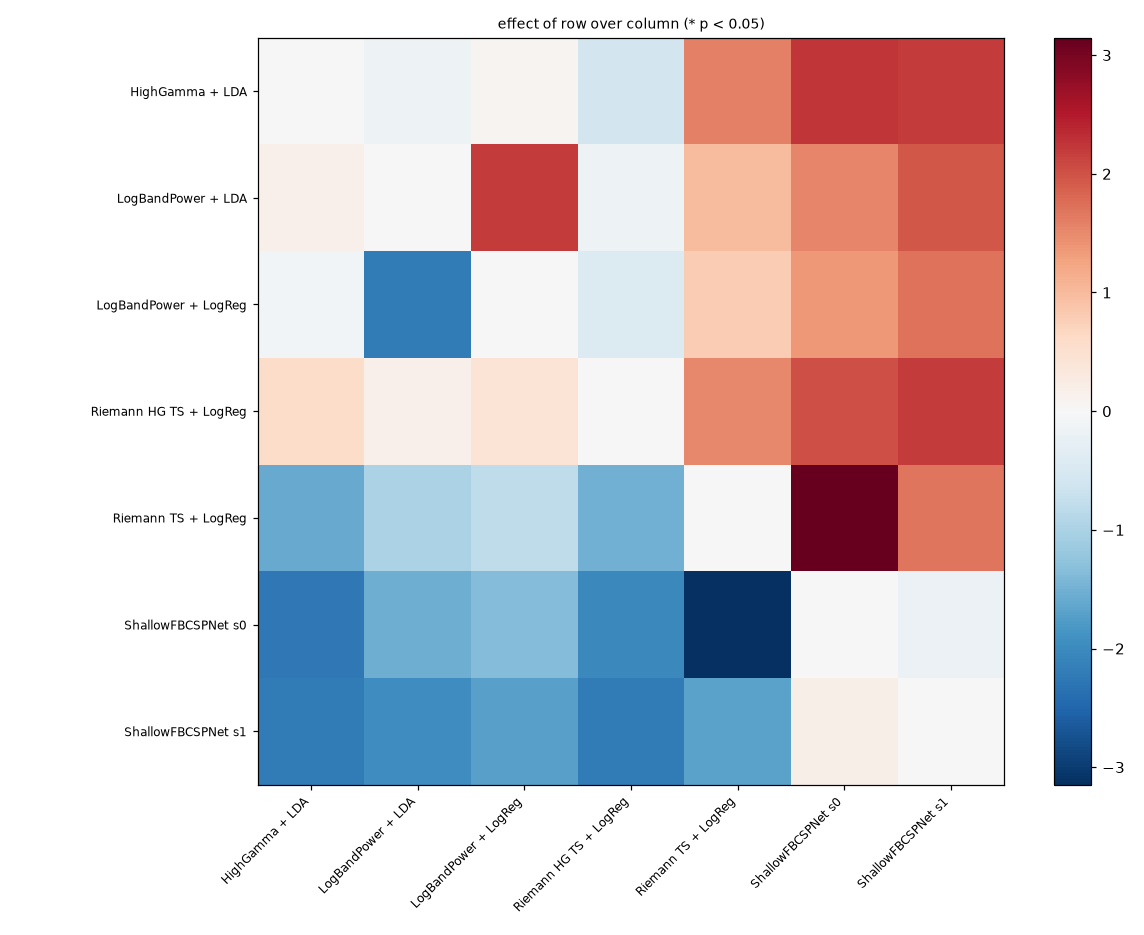
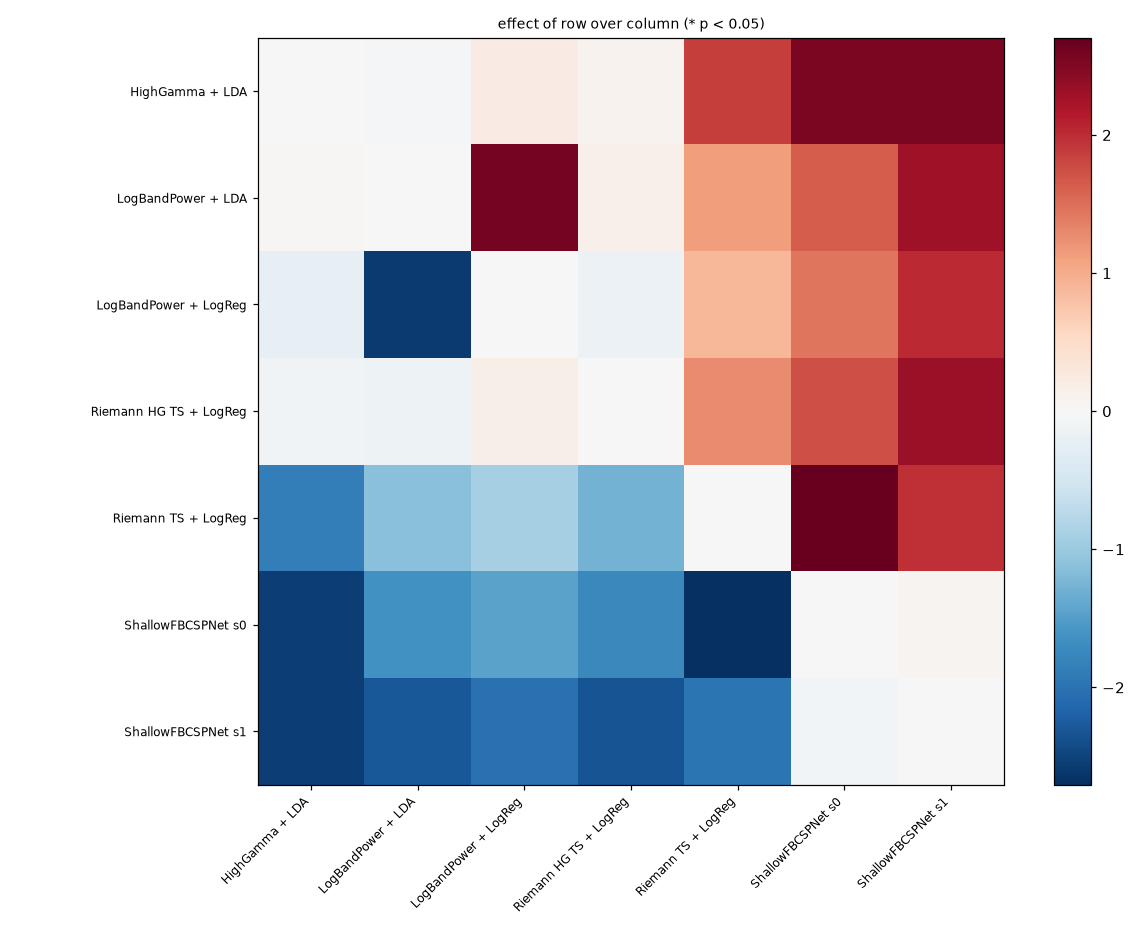
BCI III-1 aligned evaluations: re-centering lifts the Riemannian pipeline across sessions, EA hurts band power
results: within_subject:ea, cross_session:ea / :recenter / :zscore rows at the native rate;
analysis page and leaderboard regenerated; findings and roadmap M3 row updated.

Claude-Session: https://claude.ai/code/session_012mHgFPYmnEEGgL1ssc12EU

Changed region(s): [[0.2142, 0.031, 0.8872, 0.8374]]

diff --git a/docs/leaderboard.md b/docs/leaderboard.md
@@ -1,6 +1,6 @@
 # MOECoG leaderboard
 
-Generated 2026-09-11 from `results/*.csv` at commit `3f00dbc` by `scripts/build_leaderboard.py`. Values are mean ± sd over subjects of the per-subject fold mean. Headline metrics: kappa (trials), Pearson r (kinematics). Chronological folds unless noted; see `docs/baselines.md` for protocol details.
+Generated 2026-09-11 from `results/*.csv` at commit `c3aab13` by `scripts/build_leaderboard.py`. Values are mean ± sd over subjects of the per-subject fold mean. Headline metrics: kappa (trials), Pearson r (kinematics). Chronological folds unless noted; see `docs/baselines.md` for protocol details.
 
 ## BCICompIII-1
 
@@ -16,6 +16,36 @@ Generated 2026-09-11 from `results/*.csv` at commit `3f00dbc` by `scripts/build_
 | cross_session | train | LogBandPower + LogReg | 1 | 0.446 ± 0.000 | 0.723 ± 0.000 | 0.723 ± 0.000 | chronological, leave_one_session_out |
 | cross_session | train | Riemann HG TS + LogReg | 1 | 0.000 ± 0.000 | 0.500 ± 0.000 | 0.500 ± 0.000 | chronological, leave_one_session_out |
 | cross_session | train | Riemann TS + LogReg | 1 | 0.576 ± 0.000 | 0.788 ± 0.000 | 0.788 ± 0.000 | chronological, leave_one_session_out |
+| cross_session:ea | test | HighGamma + LDA | 1 | 0.020 ± 0.000 | 0.510 ± 0.000 | 0.510 ± 0.000 | chronological, leave_one_session_out |
+| cross_session:ea | test | LogBandPower + LDA | 1 | 0.020 ± 0.000 | 0.510 ± 0.000 | 0.510 ± 0.000 | chronological, leave_one_session_out |
+| cross_session:ea | test | LogBandPower + LogReg | 1 | 0.100 ± 0.000 | 0.550 ± 0.000 | 0.550 ± 0.000 | chronological, leave_one_session_out |
+| cross_session:ea | test | Riemann HG TS + LogReg | 1 | 0.000 ± 0.000 | 0.500 ± 0.000 | 0.500 ± 0.000 | chronological, leave_one_session_out |
+| cross_session:ea | test | Riemann TS + LogReg | 1 | 0.660 ± 0.000 | 0.830 ± 0.000 | 0.830 ± 0.000 | chronological, leave_one_session_out |
+| cross_session:ea | train | HighGamma + LDA | 1 | 0.000 ± 0.000 | 0.500 ± 0.000 | 0.500 ± 0.000 | chronological, leave_one_session_out |
+| cross_session:ea | train | LogBandPower + LDA | 1 | 0.000 ± 0.000 | 0.500 ± 0.000 | 0.500 ± 0.000 | chronological, leave_one_session_out |
+| cross_session:ea | train | LogBandPower + LogReg | 1 | 0.000 ± 0.000 | 0.500 ± 0.000 | 0.500 ± 0.000 | chronological, leave_one_session_out |
+| cross_session:ea | train | Riemann HG TS + LogReg | 1 | -0.007 ± 0.000 | 0.496 ± 0.000 | 0.496 ± 0.000 | chronological, leave_one_session_out |
+| cross_session:ea | train | Riemann TS + LogReg | 1 | 0.295 ± 0.000 | 0.647 ± 0.000 | 0.647 ± 0.000 | chronological, leave_one_session_out |
+| cross_session:recenter | test | HighGamma + LDA | 1 | 0.020 ± 0.000 | 0.510 ± 0.000 | 0.510 ± 0.000 | chronological, leave_one_session_out |
+| cross_session:recenter | test | LogBandPower + LDA | 1 | 0.320 ± 0.000 | 0.660 ± 0.000 | 0.660 ± 0.000 | chronological, leave_one_session_out |
+| cross_session:recenter | test | LogBandPower + LogReg | 1 | 0.520 ± 0.000 | 0.760 ± 0.000 | 0.760 ± 0.000 | chronological, leave_one_session_out |
+| cross_session:recenter | test | Riemann HG TS + LogReg | 1 | 0.080 ± 0.000 | 0.540 ± 0.000 | 0.540 ± 0.000 | chronological, leave_one_session_out |
+| cross_session:recenter | test | Riemann TS + LogReg | 1 | 0.860 ± 0.000 | 0.930 ± 0.000 | 0.930 ± 0.000 | chronological, leave_one_session_out |
+| cross_session:recenter | train | HighGamma + LDA | 1 | 0.000 ± 0.000 | 0.500 ± 0.000 | 0.500 ± 0.000 | chronological, leave_one_session_out |
+| cross_session:recenter | train | LogBandPower + LDA | 1 | 0.000 ± 0.000 | 0.500 ± 0.000 | 0.500 ± 0.000 | chronological, leave_one_session_out |
+| cross_session:recenter | train | LogBandPower + LogReg | 1 | 0.000 ± 0.000 | 0.500 ± 0.000 | 0.500 ± 0.000 | chronological, leave_one_session_out |
+| cross_session:recenter | train | Riemann HG TS + LogReg | 1 | 0.014 ± 0.000 | 0.507 ± 0.000 | 0.507 ± 0.000 | chronological, leave_one_session_out |
+| cross_session:recenter | train | Riemann TS + LogReg | 1 | 0.719 ± 0.000 | 0.860 ± 0.000 | 0.860 ± 0.000 | chronological, leave_one_session_out |
+| cross_session:zscore | test | HighGamma + LDA | 1 | 0.000 ± 0.000 | 0.500 ± 0.000 | 0.500 ± 0.000 | chronological, leave_one_session_out |
+| cross_session:zscore | test | LogBandPower + LDA | 1 | 0.000 ± 0.000 | 0.500 ± 0.000 | 0.500 ± 0.000 | chronological, leave_one_session_out |
+| cross_session:zscore | test | LogBandPower + LogReg | 1 | 0.020 ± 0.000 | 0.510 ± 0.000 | 0.510 ± 0.000 | chronological, leave_one_session_out |
+| cross_session:zscore | test | Riemann HG TS + LogReg | 1 | 0.000 ± 0.000 | 0.500 ± 0.000 | 0.500 ± 0.000 | chronological, leave_one_session_out |
+| cross_session:zscore | test | Riemann TS + LogReg | 1 | 0.000 ± 0.000 | 0.500 ± 0.000 | 0.500 ± 0.000 | chronological, leave_one_session_out |
+| cross_session:zscore | train | HighGamma + LDA | 1 | 0.007 ± 0.000 | 0.504 ± 0.000 | 0.504 ± 0.000 | chronological, leave_one_session_out |
+| cross_session:zscore | train | LogBandPower + LDA | 1 | 0.288 ± 0.000 | 0.644 ± 0.000 | 0.644 ± 0.000 | chronological, leave_one_session_out |
+| cross_session:zscore | train | LogBandPower + LogReg | 1 | 0.669 ± 0.000 | 0.835 ± 0.000 | 0.835 ± 0.000 | chronological, leave_one_session_out |
+| cross_session:zscore | train | Riemann HG TS + LogReg | 1 | 0.259 ± 0.000 | 0.629 ± 0.000 | 0.629 ± 0.000 | chronological, leave_one_session_out |
+| cross_session:zscore | train | Riemann TS + LogReg | 1 | 0.022 ± 0.000 | 0.511 ± 0.000 | 0.511 ± 0.000 | chronological, leave_one_session_out |
 | within_subject | test | HighGamma + LDA | 1 | 0.811 ± 0.000 | 0.910 ± 0.000 | 0.906 ± 0.000 | chronological, leave_one_session_out |
 | within_subject | test | LogBandPower + LDA | 1 | 0.855 ± 0.000 | 0.930 ± 0.000 | 0.927 ± 0.000 | chronological, leave_one_session_out |
 | within_subject | test | LogBandPower + LogReg | 1 | 0.836 ± 0.000 | 0.920 ± 0.000 | 0.919 ± 0.000 | chronological, leave_one_session_out |
@@ -26,6 +56,16 @@ Generated 2026-09-11 from `results/*.csv` at commit `3f00dbc` by `scripts/build_
 | within_subject | train | LogBandPower + LogReg | 1 | 0.746 ± 0.000 | 0.874 ± 0.000 | 0.873 ± 0.000 | chronological, leave_one_session_out |
 | within_subject | train | Riemann HG TS + LogReg | 1 | 0.585 ± 0.000 | 0.795 ± 0.000 | 0.793 ± 0.000 | chronological, leave_one_session_out |
 | within_subject | train | Riemann TS + LogReg | 1 | 0.811 ± 0.000 | 0.906 ± 0.000 | 0.905 ± 0.000 | chronological, leave_one_session_out |
+| within_subject:ea | test | HighGamma + LDA | 1 | 0.831 ± 0.000 | 0.920 ± 0.000 | 0.916 ± 0.000 | chronological, leave_one_session_out |
+| within_subject:ea | test | LogBandPower + LDA | 1 | 0.915 ± 0.000 | 0.960 ± 0.000 | 0.956 ± 0.000 | chronological, leave_one_session_out |
+| within_subject:ea | test | LogBandPower + LogReg | 1 | 0.895 ± 0.000 | 0.950 ± 0.000 | 0.947 ± 0.000 | chronological, leave_one_session_out |
+| within_subject:ea | test | Riemann HG TS + LogReg | 1 | 0.652 ± 0.000 | 0.830 ± 0.000 | 0.833 ± 0.000 | chronological, leave_one_session_out |
+| within_subject:ea | test | Riemann TS + LogReg | 1 | 0.877 ± 0.000 | 0.940 ± 0.000 | 0.942 ± 0.000 | chronological, leave_one_session_out |
+| within_subject:ea | train | HighGamma + LDA | 1 | 0.674 ± 0.000 | 0.838 ± 0.000 | 0.840 ± 0.000 | chronological, leave_one_session_out |
+| within_subject:ea | train | LogBandPower + LDA | 1 | 0.733 ± 0.000 | 0.867 ± 0.000 | 0.868 ± 0.000 | chronological, leave_one_session_out |
+| within_subject:ea | train | LogBandPower + LogReg | 1 | 0.782 ± 0.000 | 0.892 ± 0.000 | 0.891 ± 0.000 | chronological, leave_one_session_out |
+| within_subject:ea | train | Riemann HG TS + LogReg | 1 | 0.585 ± 0.000 | 0.795 ± 0.000 | 0.793 ± 0.000 | chronological, leave_one_session_out |
+| within_subject:ea | train | Riemann TS + LogReg | 1 | 0.818 ± 0.000 | 0.910 ± 0.000 | 0.908 ± 0.000 | chronological, leave_one_session_out |
 
 ## Miller2019-faces_basic
 
@@ -91,14 +131,14 @@ Generated 2026-09-11 from `results/*.csv` at commit `3f00dbc` by `scripts/build_
 | within_subject | im | Riemann HG TS + LogReg | 7 | 0.340 ± 0.277 | 0.671 ± 0.139 | 0.675 ± 0.145 | chronological |
 | within_subject | im | Riemann TS + LogReg | 7 | 0.221 ± 0.196 | 0.598 ± 0.100 | 0.618 ± 0.107 | chronological |
 | within_subject | im | ShallowFBCSPNet s0 | 7 | 0.051 ± 0.170 | 0.521 ± 0.091 | 0.530 ± 0.089 | chronological |
-| within_subject | im | ShallowFBCSPNet s1 | 4 | 0.021 ± 0.089 | 0.508 ± 0.053 | 0.511 ± 0.047 | chronological |
+| within_subject | im | ShallowFBCSPNet s1 | 5 | 0.045 ± 0.093 | 0.517 ± 0.051 | 0.523 ± 0.049 | chronological |
 | within_subject | mot | HighGamma + LDA | 7 | 0.893 ± 0.111 | 0.948 ± 0.055 | 0.954 ± 0.048 | chronological |
 | within_subject | mot | LogBandPower + LDA | 7 | 0.860 ± 0.089 | 0.931 ± 0.044 | 0.934 ± 0.043 | chronological |
 | within_subject | mot | LogBandPower + LogReg | 7 | 0.812 ± 0.117 | 0.907 ± 0.058 | 0.913 ± 0.055 | chronological |
 | within_subject | mot | Riemann HG TS + LogReg | 7 | 0.898 ± 0.093 | 0.950 ± 0.045 | 0.956 ± 0.040 | chronological |
 | within_subject | mot | Riemann TS + LogReg | 7 | 0.603 ± 0.234 | 0.793 ± 0.129 | 0.818 ± 0.109 | chronological |
 | within_subject | mot | ShallowFBCSPNet s0 | 7 | 0.377 ± 0.376 | 0.669 ± 0.213 | 0.686 ± 0.204 | chronological |
-| within_subject | mot | ShallowFBCSPNet s1 | 4 | 0.349 ± 0.243 | 0.675 ± 0.119 | 0.682 ± 0.131 | chronological |
+| within_subject | mot | ShallowFBCSPNet s1 | 5 | 0.267 ± 0.272 | 0.630 ± 0.140 | 0.639 ± 0.146 | chronological |
 
 ## Miller2019-motor_basic
 

diff --git a/docs/analysis.md b/docs/analysis.md
@@ -12,6 +12,36 @@ Generated 2026-09-11 by `scripts/build_analysis.py` from `results/reference_*.cs
 | Riemann HG TS + LogReg | 0.180 | nan | 0.180 | 1 |
 | HighGamma + LDA | 0.000 | nan | 0.000 | 1 |
 
+## bci_iii_1 (cross_session:ea, kappa, 1 patients)
+
+| pipeline | mean | sd | median | patients |
+|---|---|---|---|---|
+| Riemann TS + LogReg | 0.477 | nan | 0.477 | 1 |
+| LogBandPower + LogReg | 0.050 | nan | 0.050 | 1 |
+| HighGamma + LDA | 0.010 | nan | 0.010 | 1 |
+| LogBandPower + LDA | 0.010 | nan | 0.010 | 1 |
+| Riemann HG TS + LogReg | -0.004 | nan | -0.004 | 1 |
+
+## bci_iii_1 (cross_session:recenter, kappa, 1 patients)
+
+| pipeline | mean | sd | median | patients |
+|---|---|---|---|---|
+| Riemann TS + LogReg | 0.790 | nan | 0.790 | 1 |
+| LogBandPower + LogReg | 0.260 | nan | 0.260 | 1 |
+| LogBandPower + LDA | 0.160 | nan | 0.160 | 1 |
+| Riemann HG TS + LogReg | 0.047 | nan | 0.047 | 1 |
+| HighGamma + LDA | 0.010 | nan | 0.010 | 1 |
+
+## bci_iii_1 (cross_session:zscore, kappa, 1 patients)
+
+| pipeline | mean | sd | median | patients |
+|---|---|---|---|---|
+| LogBandPower + LogReg | 0.345 | nan | 0.345 | 1 |
+| LogBandPower + LDA | 0.144 | nan | 0.144 | 1 |
+| Riemann HG TS + LogReg | 0.129 | nan | 0.129 | 1 |
+| Riemann TS + LogReg | 0.011 | nan | 0.011 | 1 |
+| HighGamma + LDA | 0.004 | nan | 0.004 | 1 |
+
 ## bci_iii_1 (learning_curve, kappa, 1 patients)
 
 Train on the first 10/25/50/100 % of the non-test trials of every (patient, session), test on the fixed final 20 %. The last column is the smallest fraction whose mean reaches 90 % of the full-data mean.
@@ -34,6 +64,16 @@ Train on the first 10/25/50/100 % of the non-test trials of every (patient, sess
 | LogBandPower + LDA | 0.801 | nan | 0.801 | 1 |
 | LogBandPower + LogReg | 0.791 | nan | 0.791 | 1 |
 | HighGamma + LDA | 0.659 | nan | 0.659 | 1 |
+| Riemann HG TS + LogReg | 0.618 | nan | 0.618 | 1 |
+
+## bci_iii_1 (within_subject:ea, kappa, 1 patients)
+
+| pipeline | mean | sd | median | patients |
+|---|---|---|---|---|
+| Riemann TS + LogReg | 0.848 | nan | 0.848 | 1 |
+| LogBandPower + LogReg | 0.838 | nan | 0.838 | 1 |
+| LogBandPower + LDA | 0.824 | nan | 0.824 | 1 |
+| HighGamma + LDA | 0.753 | nan | 0.753 | 1 |
 | Riemann HG TS + LogReg | 0.618 | nan | 0.618 | 1 |
 
 ## faces_basic (learning_curve, kappa, 14 patients)
@@ -168,9 +208,9 @@ Train on the first 10/25/50/100 % of the non-test trials of every (patient, sess
 | LogBandPower + LogReg | 0.609 | 0.132 | 0.556 | 7 |
 | Riemann TS + LogReg | 0.412 | 0.169 | 0.361 | 7 |
 | ShallowFBCSPNet s0 | 0.214 | 0.245 | 0.211 | 7 |
-| ShallowFBCSPNet s1 | 0.185 | 0.106 | 0.198 | 4 |
+| ShallowFBCSPNet s1 | 0.156 | 0.113 | 0.128 | 5 |
 
-Mean rank (1 = best), Friedman p = 0.00623: LogBandPower + LDA 2.25, Riemann HG TS + LogReg 2.25, HighGamma + LDA 2.75, LogBandPower + LogReg 3.25, Riemann TS + LogReg 4.50, ShallowFBCSPNet s0 6.50, ShallowFBCSPNet s1 6.50
+Mean rank (1 = best), Friedman p = 0.000866: LogBandPower + LDA 2.20, HighGamma + LDA 2.40, Riemann HG TS + LogReg 2.60, LogBandPower + LogReg 3.20, Riemann TS + LogReg 4.60, ShallowFBCSPNet s0 6.40, ShallowFBCSPNet s1 6.60
 
 No pairwise difference reaches p < 0.05.
 

diff --git a/docs/baselines.md b/docs/baselines.md
@@ -71,6 +71,15 @@ the PACE camera-ready (2026-09-25).
   points sit below the five-fold means because the test block is the last fifth of the session, where drift is
   largest. Fingerflex behaves the same way: `HighGamma + Ridge` reaches r 0.15 from the first 10 % of a run and 0.27
   from all of it, `LogBandPower + Ridge` 0.10 and 0.25. Curves and tables: `docs/analysis.md`.
+- **Session drift: the fix depends on the feature family.** On BCI III-1 (train and test sessions a week apart)
+  label-free alignment of each session's epochs (`alignment=`, `moecog.alignment`) moves the Riemannian pipeline
+  from kappa 0.55 across sessions to 0.79 with Riemannian re-centering (Zanini et al. 2018), while Euclidean
+  alignment (arithmetic-mean whitening) lowers it to 0.48 and destroys every band-power pipeline (0.01 to 0.05):
+  whitening mixes channels, so band power of the mixed channels no longer means the same thing on the next day.
+  Per-channel z-scoring of the raw session does not help band power either (0.14 to 0.35 against 0.24 to 0.36
+  unaligned), so the drift is not a per-channel gain. Within a session, whitening on all trials (transductive)
+  adds two to nine points to every classical pipeline (`within_subject:ea`). The alignment that suits band-power
+  features is standardisation of the features per session, the next chunk (`BatchStandardizer`).
 - **Fingerflex**: HighGamma + Ridge r 0.28 beats LogBandPower + Ridge 0.27 in 9 of 9 patients (p = 0.016); both sit
   far below the 0.74 that FingerFlex's convolutional decoder reports, the M3 target.
 

diff --git a/ROADMAP.md b/ROADMAP.md
@@ -62,7 +62,7 @@ catalog and smoke sweep of 130 public deposits (106 load).
 | Merk grip force + Peterson pose | regression paradigms for force and 2-D pose; ridge and PACE baselines |
 | Detroit naming corpora (ds006910, ds006234, ds005545) | 100+ patient classification with the epoched paradigm; per-patient distribution plotted |
 | Stimulus reconstruction | `SpectrogramReconstruction` paradigm on Bellier and Verwoert |
-| Session drift | per-session feature normalisation and Euclidean / Riemannian Procrustes alignment as pipeline steps (`moecog.pipelines.alignment`), evaluated on BCI III-1 cross-session and on the Miller multi-session files; the literature says alignment is worth 3-10 points and no single method wins (`docs/best_practices.md`) |
+| Session drift | label-free per-session alignment as an evaluation option (`moecog.alignment`: Euclidean alignment, Riemannian re-centering, raw z-score) and per-session feature standardisation as a pipeline step (`BatchStandardizer`), evaluated on BCI III-1 cross-session; the literature says alignment is worth 3-10 points and no single method wins (`docs/best_practices.md`) | started 2026-09-11: Riemannian re-centering lifts the Riemannian pipeline from 0.55 to 0.79 across the BCI III-1 sessions, Euclidean alignment hurts every pipeline there; band power needs feature-level standardisation instead |
 | Deep fingerflex | a FingerFlex-style convolutional regressor as a pipeline, to test the published r above 0.6 on BCI IV-4 against ridge's 0.28 |
 
 ### M4. Cross-subject and transfer (target 2027-01)

diff --git a/docs/api.md b/docs/api.md
@@ -18,6 +18,7 @@
 ::: moecog.evaluations.within_subject
 ::: moecog.evaluations.cross_session
 ::: moecog.evaluations.learning_curve
+::: moecog.alignment
 
 ## Pipelines and benchmark
 
